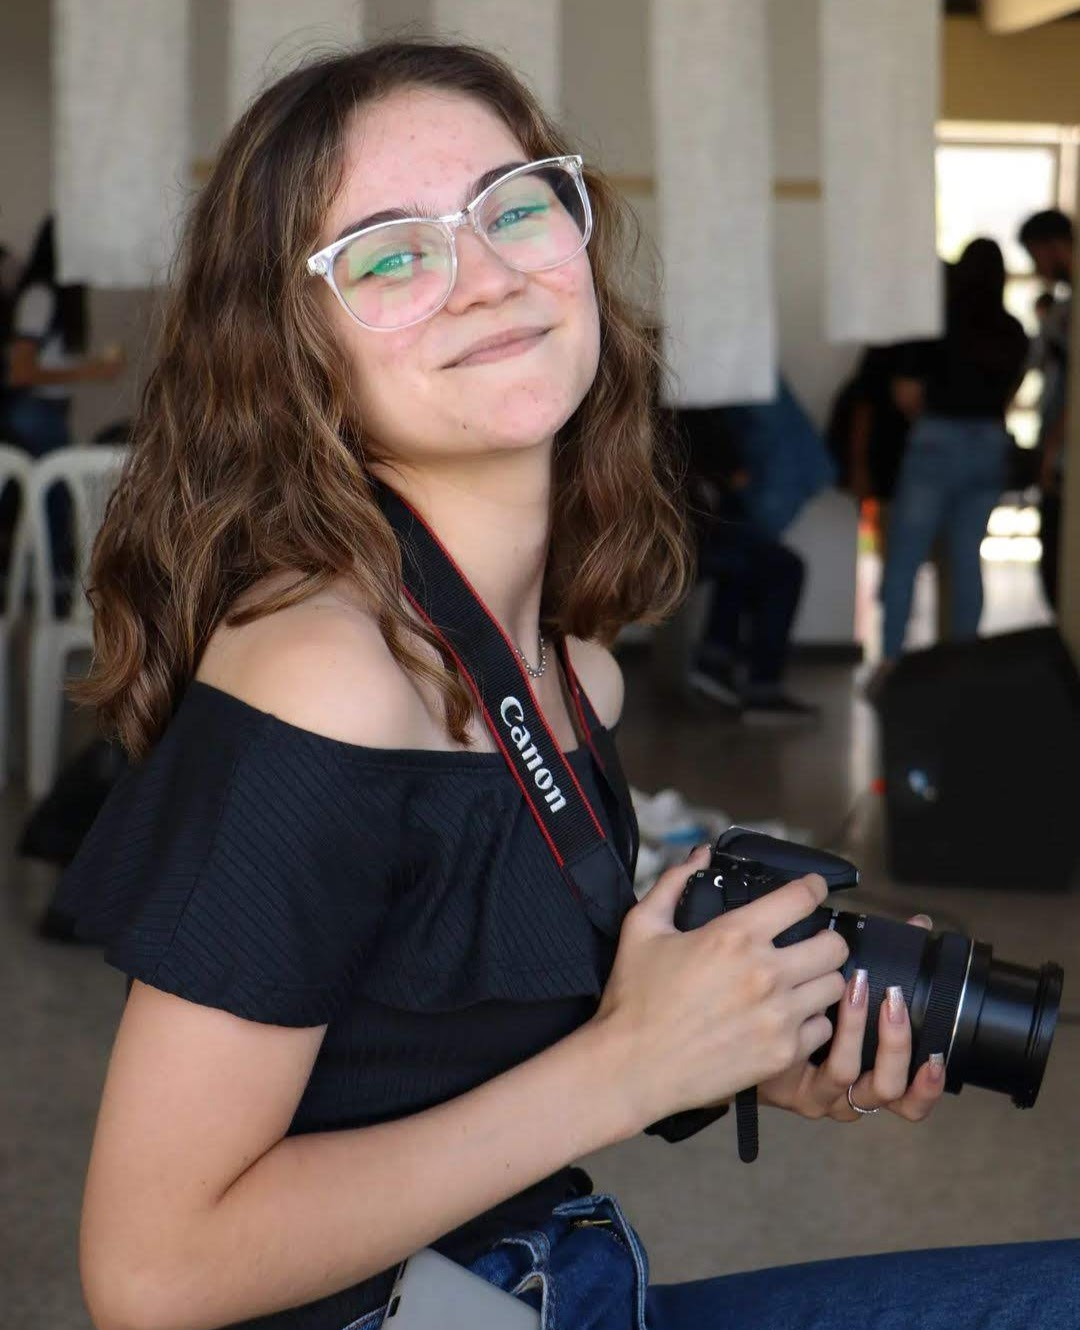
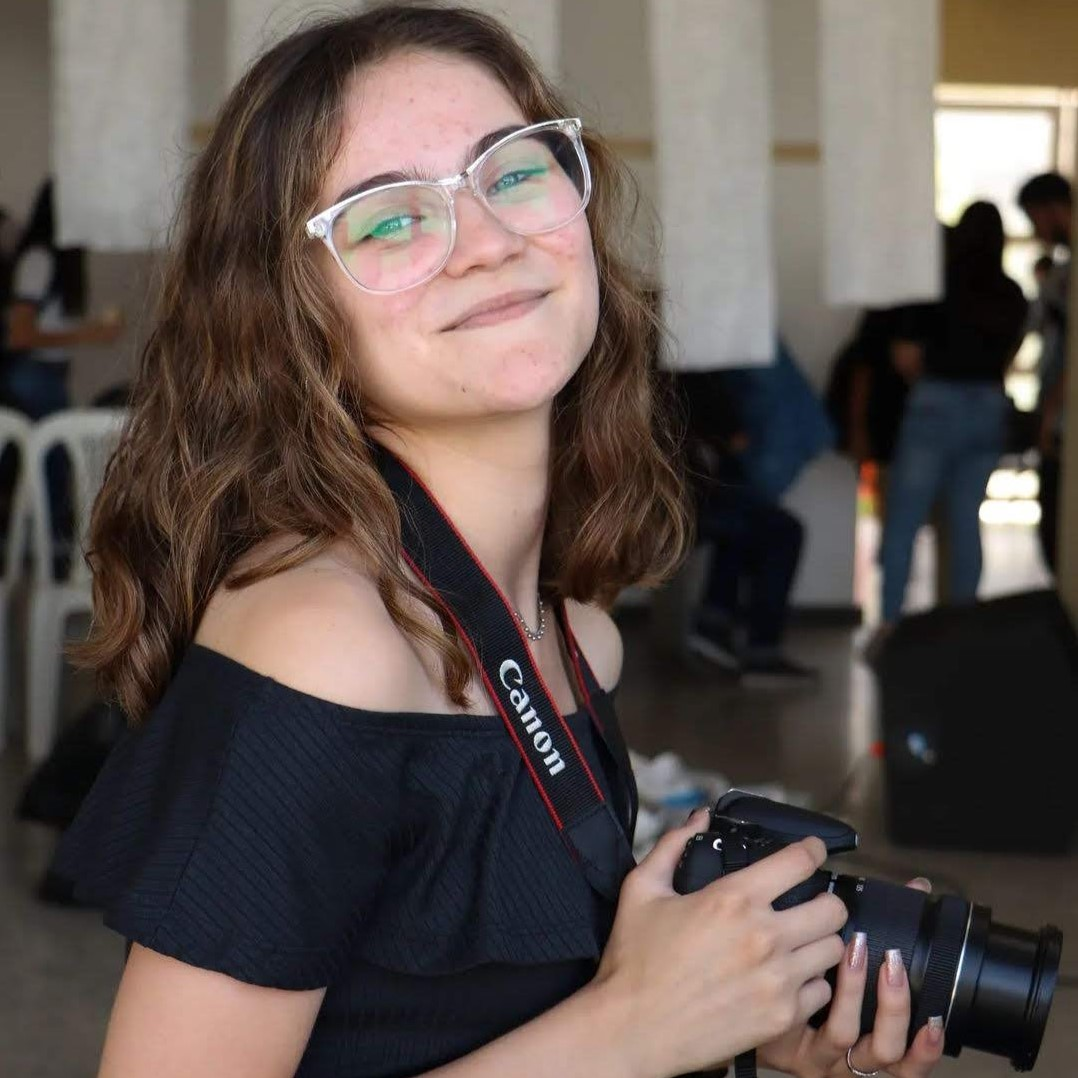
alterei as imagens

diff --git a/funcionalidades.js b/funcionalidades.js
@@ -73,7 +73,7 @@ function carregarPag(){
         
         if (window.matchMedia("(max-width:800px)").matches) {
             
-            img.innerHTML ='<img src="img/img2.jpg" width="75%" height="35%" alt="">';
+            img.innerHTML ='<img src="img/img2.jpg" width="90%" height="35%" alt="">';
 
         }else{
             img.innerHTML ='<img src="img/img2.jpg" width="35%" height="35%" alt="">';
